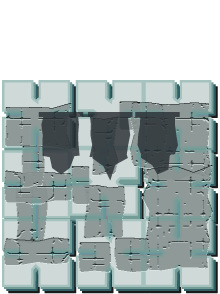
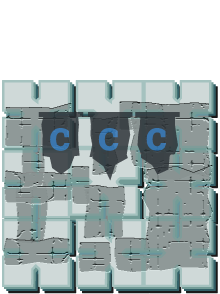
fix(schotten2): graphics and rules

Changed region(s): [[0.6545, 0.4286, 0.7636, 0.5204], [0.2182, 0.4286, 0.3273, 0.5204], [0.4364, 0.4286, 0.5455, 0.5204]]

diff --git a/src/games/Schotten2/Rules.vue b/src/games/Schotten2/Rules.vue
@@ -25,8 +25,8 @@
       </p>
       <div class="row items-center q-pb-md">
         <div class="col-10">
-          <p>- They control 1 damaged <strong>Wall Section</strong></p>
-          <p>- They damage 4 <strong>Wall Sections</strong></p>
+          <p>- They control 1 <i>damaged</i> <strong>Wall Section</strong></p>
+          <p>- They <i>damage</i> 4 <strong>Wall Sections</strong></p>
         </div>
         <div class="col-2 text-center">
           <q-img :src="`/st2/sections/${side}/damaged/door.png`" contain />
@@ -34,8 +34,10 @@
       </div>
       <p>
         Alternatively, when the Attacker is unable to draw a card, they have one
-        additional turn to complete one of their win conditions. The Defender
-        wins if the Attacker has not met a victory condition.
+        additional turn to complete one of their win conditions.
+        <i
+          >The Defender wins if the Attacker has not met a victory condition.</i
+        >
       </p>
     </q-card-section>
     <q-separator class="q-mb-md" inset />
@@ -56,7 +58,7 @@
         </div>
       </div>
       <div class="row items-center q-pb-md">
-        <div class="col-10">- 3 <strong>Oil Tokens</strong></div>
+        <div class="col-10">- 3 <strong>Oil Cauldrons</strong></div>
         <div class="col-2 text-center">
           <q-icon name="local_fire_department" size="xl" />
         </div>
@@ -79,7 +81,7 @@
         side of any number of <strong>Wall Sections</strong>
       </p>
       <p>
-        - The Defender may throw an <strong>Oil Token</strong> to remove the
+        - The Defender may throw an <strong>Oil Cauldron</strong> to remove the
         Attacker’s <strong>Card</strong>
         closest to the Wall Section of your choice. Limit, once per turn, and
         three per game.
@@ -91,7 +93,11 @@
           You must choose a <strong>Card</strong> from your hand and place it in
           front of any <strong>Wall Section</strong> provided the number of
           cards does not exceed the number of available spaces displayed on the
-          selected <strong>Wall Section</strong>.
+          selected <strong>Wall Section</strong>. Note: If a 0
+          <strong>Card</strong> is played opposite an 11
+          <strong>Card</strong> of the same color then both cards are removed.
+          The same is true if the 0 <strong>Card</strong> was played before the
+          11 <strong>Card</strong>.
         </div>
         <div class="col-2 text-center">
           <q-img :src="`/st2/info/${side}/play.png`" contain />
@@ -201,14 +207,14 @@
           <q-img :src="`/st2/sections/${side}/damaged/tower.png`" contain />
         </div>
       </div>
-      <!-- <div class="row items-center q-pb-md">
+      <div class="row items-center q-pb-md">
         <div class="col-10">
           Color and Sum formations are considered
         </div>
         <div class="col-2 text-center">
-          <q-img :src="`/st2/sections/${side}/good/tower.png`" contain />
+          <q-img :src="`/st2/sections/${side}/damaged/wall.png`" contain />
         </div>
-      </div> -->
+      </div>
       <div class="row items-center q-pb-md">
         <div class="col-10">
           Run and Sum formations are considered
